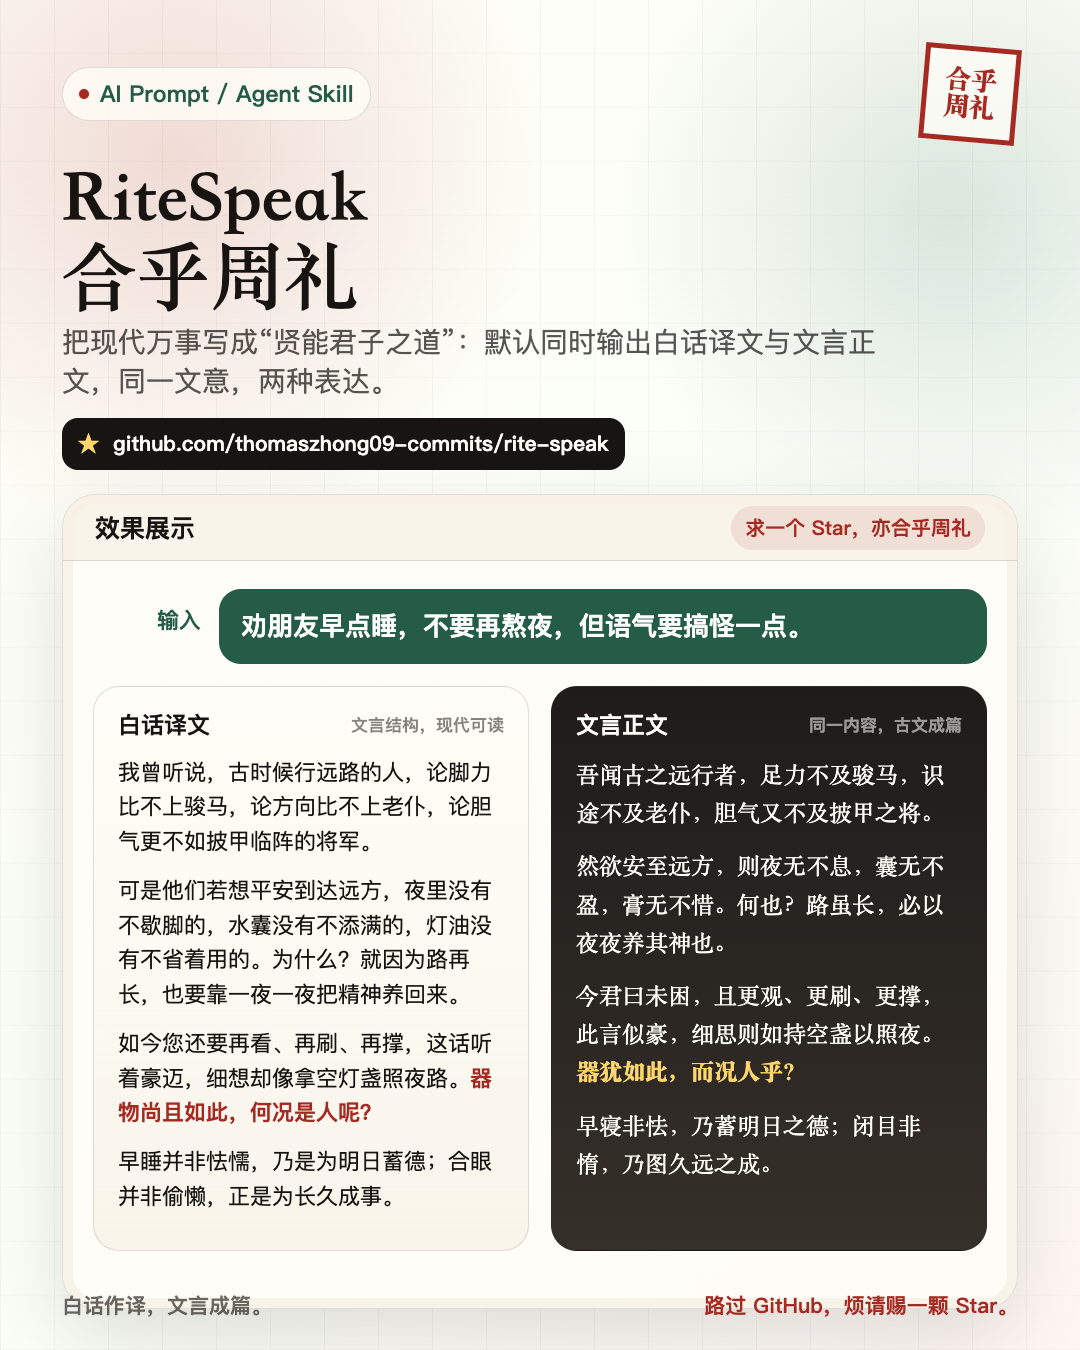
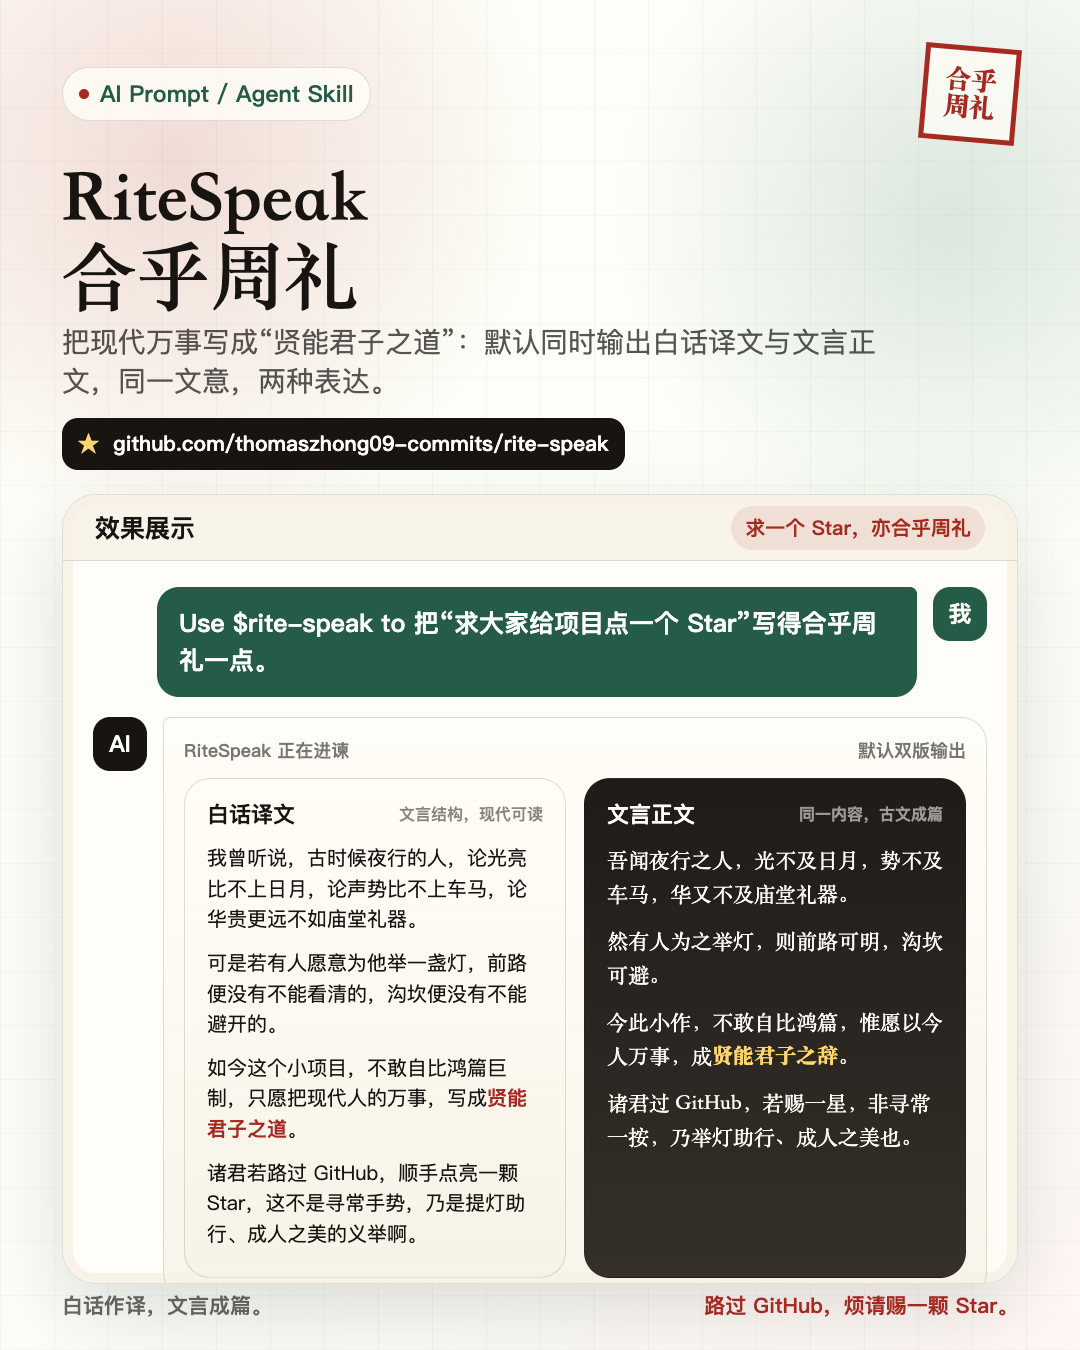
Update share preview to star request dialogue

Changed region(s): [[0.0611, 0.4356, 0.9167, 0.9644]]

diff --git a/docs/ritespeak-share.html b/docs/ritespeak-share.html
@@ -120,7 +120,7 @@
 
       .demo {
         margin-top: 24px;
-        height: 815px;
+        height: 790px;
         border: 1px solid var(--line);
         border-radius: 34px;
         background: rgba(255, 253, 247, 0.89);
@@ -155,47 +155,88 @@
       }
 
       .content {
-        padding: 28px 30px;
+        padding: 26px 30px;
       }
 
-      .prompt {
+      .chat {
+        display: flex;
+        flex-direction: column;
+        gap: 20px;
+      }
+
+      .turn {
+        display: flex;
+        gap: 16px;
+        align-items: flex-start;
+      }
+
+      .turn.user {
+        justify-content: flex-end;
+      }
+
+      .avatar {
+        width: 54px;
+        height: 54px;
+        flex: 0 0 auto;
         display: grid;
-        grid-template-columns: 108px 1fr;
-        gap: 18px;
-        align-items: start;
-        margin-bottom: 22px;
+        place-items: center;
+        border-radius: 17px;
+        background: var(--ink);
+        color: var(--paper);
+        font-size: 23px;
+        font-weight: 900;
       }
 
-      .label {
-        padding-top: 16px;
-        color: var(--green);
-        font-size: 22px;
-        font-weight: 900;
-        text-align: right;
+      .user .avatar {
+        background: var(--green);
       }
 
       .bubble {
-        min-height: 70px;
+        max-width: 760px;
         border-radius: 22px;
         padding: 18px 22px;
         background: var(--green);
         color: white;
-        font-size: 26px;
+        font-size: 25px;
         line-height: 1.48;
         font-weight: 650;
+      }
+
+      .user .bubble {
+        border-top-right-radius: 7px;
+      }
+
+      .assistant-shell {
+        flex: 1;
+        border: 1px solid var(--line);
+        border-radius: 26px;
+        border-top-left-radius: 7px;
+        padding: 20px;
+        background:
+          linear-gradient(180deg, rgba(255, 253, 247, 0.96), rgba(246, 241, 228, 0.68));
+      }
+
+      .assistant-meta {
+        display: flex;
+        align-items: center;
+        justify-content: space-between;
+        margin-bottom: 15px;
+        color: rgba(23, 20, 18, 0.58);
+        font-size: 18px;
+        font-weight: 800;
       }
 
       .outputs {
         display: grid;
         grid-template-columns: 1fr 1fr;
-        gap: 22px;
+        gap: 18px;
       }
 
       .card {
-        min-height: 565px;
+        min-height: 500px;
         border: 1px solid var(--line);
         border-radius: 26px;
-        padding: 22px 24px;
+        padding: 20px 22px;
         background:
           linear-gradient(180deg, rgba(255, 253, 247, 0.96), rgba(246, 241, 228, 0.66));
       }
@@ -211,13 +252,13 @@
         align-items: center;
         justify-content: space-between;
         margin-bottom: 14px;
-        font-size: 23px;
+        font-size: 22px;
         font-weight: 900;
       }
 
       .card-title small {
         color: rgba(23, 20, 18, 0.52);
-        font-size: 17px;
+        font-size: 16px;
         font-weight: 700;
       }
 
@@ -226,15 +267,15 @@
       }
 
       .card p {
-        margin: 0 0 14px;
-        font-size: 22px;
-        line-height: 1.58;
+        margin: 0 0 13px;
+        font-size: 20px;
+        line-height: 1.53;
       }
 
       .classic p {
         font-family: "Songti SC", "STSong", serif;
-        font-size: 23px;
-        line-height: 1.68;
+        font-size: 21px;
+        line-height: 1.62;
       }
 
       .card p:last-child {
@@ -285,27 +326,38 @@
           <div class="chip">求一个 Star，亦合乎周礼</div>
         </div>
         <div class="content">
-          <div class="prompt">
-            <div class="label">输入</div>
-            <div class="bubble">劝朋友早点睡，不要再熬夜，但语气要搞怪一点。</div>
-          </div>
+          <div class="chat">
+            <div class="turn user">
+              <div class="bubble">Use $rite-speak to 把“求大家给项目点一个 Star”写得合乎周礼一点。</div>
+              <div class="avatar">我</div>
+            </div>
 
-          <div class="outputs">
-            <article class="card">
-              <div class="card-title">白话译文 <small>文言结构，现代可读</small></div>
-              <p>我曾听说，古时候行远路的人，论脚力比不上骏马，论方向比不上老仆，论胆气更不如披甲临阵的将军。</p>
-              <p>可是他们若想平安到达远方，夜里没有不歇脚的，水囊没有不添满的，灯油没有不省着用的。为什么？就因为路再长，也要靠一夜一夜把精神养回来。</p>
-              <p>如今您还要再看、再刷、再撑，这话听着豪迈，细想却像拿空灯盏照夜路。<span class="mark">器物尚且如此，何况是人呢？</span></p>
-              <p>早睡并非怯懦，乃是为明日蓄德；合眼并非偷懒，正是为长久成事。</p>
-            </article>
+            <div class="turn assistant">
+              <div class="avatar">AI</div>
+              <div class="assistant-shell">
+                <div class="assistant-meta">
+                  <span>RiteSpeak 正在进谏</span>
+                  <span>默认双版输出</span>
+                </div>
+                <div class="outputs">
+                  <article class="card">
+                    <div class="card-title">白话译文 <small>文言结构，现代可读</small></div>
+                    <p>我曾听说，古时候夜行的人，论光亮比不上日月，论声势比不上车马，论华贵更远不如庙堂礼器。</p>
+                    <p>可是若有人愿意为他举一盏灯，前路便没有不能看清的，沟坎便没有不能避开的。</p>
+                    <p>如今这个小项目，不敢自比鸿篇巨制，只愿把现代人的万事，写成<span class="mark">贤能君子之道</span>。</p>
+                    <p>诸君若路过 GitHub，顺手点亮一颗 Star，这不是寻常手势，乃是提灯助行、成人之美的义举啊。</p>
+                  </article>
 
-            <article class="card classic">
-              <div class="card-title">文言正文 <small>同一内容，古文成篇</small></div>
-              <p>吾闻古之远行者，足力不及骏马，识途不及老仆，胆气又不及披甲之将。</p>
-              <p>然欲安至远方，则夜无不息，囊无不盈，膏无不惜。何也？路虽长，必以夜夜养其神也。</p>
-              <p>今君曰未困，且更观、更刷、更撑，此言似豪，细思则如持空盏以照夜。<span class="mark">器犹如此，而况人乎？</span></p>
-              <p>早寝非怯，乃蓄明日之德；闭目非惰，乃图久远之成。</p>
-            </article>
+                  <article class="card classic">
+                    <div class="card-title">文言正文 <small>同一内容，古文成篇</small></div>
+                    <p>吾闻夜行之人，光不及日月，势不及车马，华又不及庙堂礼器。</p>
+                    <p>然有人为之举灯，则前路可明，沟坎可避。</p>
+                    <p>今此小作，不敢自比鸿篇，惟愿以今人万事，成<span class="mark">贤能君子之辞</span>。</p>
+                    <p>诸君过 GitHub，若赐一星，非寻常一按，乃举灯助行、成人之美也。</p>
+                  </article>
+                </div>
+              </div>
+            </div>
           </div>
         </div>
       </section>